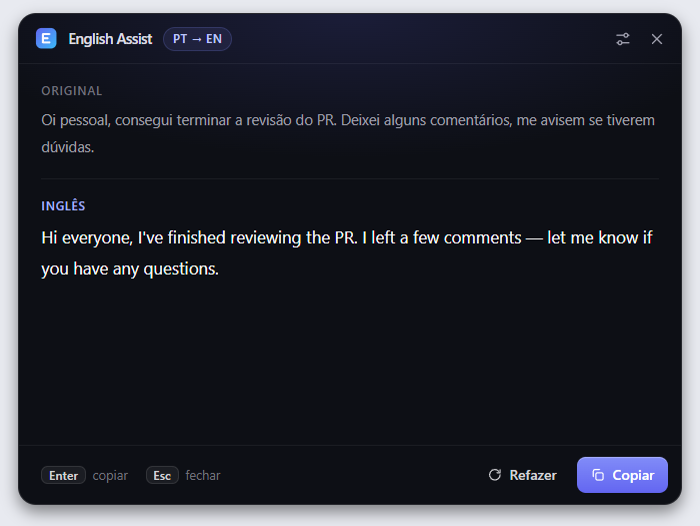
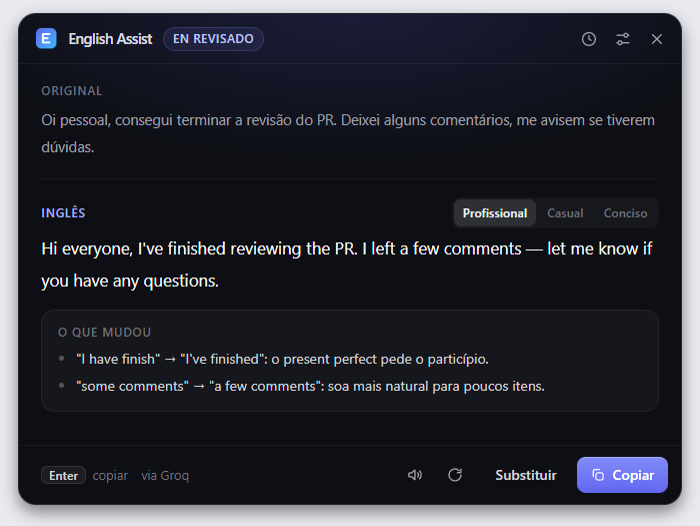
feat: auto-update from GitHub releases

diff --git a/src/main/updater.ts b/src/main/updater.ts
@@ -1,0 +1,40 @@
+import { app } from 'electron'
+import { autoUpdater } from 'electron-updater'
+import { notify } from './tray'
+
+// Updates come from the GitHub releases of the repository named in electron-builder.yml.
+// A new version downloads in the background and is installed when the app quits.
+export function initUpdater(): void {
+  if (!app.isPackaged) return
+
+  autoUpdater.autoDownload = true
+  autoUpdater.autoInstallOnAppQuit = true
+  autoUpdater.on('update-downloaded', (info) => {
+    notify('Atualização pronta', `A versão ${info.version} será instalada quando você sair do English Assist.`)
+  })
+  // Failures are reported by whoever asked for the check; without a listener they would be thrown.
+  autoUpdater.on('error', () => {})
+
+  void checkForUpdates(false)
+}
+
+/** `manual` checks always tell the user the outcome; the one at startup stays quiet unless there is an update. */
+export async function checkForUpdates(manual: boolean): Promise<void> {
+  if (!app.isPackaged) {
+    if (manual) notify('Atualizações', 'Só a versão instalada do app se atualiza sozinha.')
+    return
+  }
+
+  try {
+    const result = await autoUpdater.checkForUpdates()
+    if (!manual) return
+    if (result?.downloadPromise) {
+      notify('Atualização encontrada', `Baixando a versão ${result.updateInfo.version}.`)
+    } else {
+      notify('Atualizações', `Você já está na versão mais recente (${app.getVersion()}).`)
+    }
+  } catch {
+    // No release published yet, or no internet.
+    if (manual) notify('Atualizações', 'Não foi possível verificar agora. Tente de novo mais tarde.')
+  }
+}

diff --git a/src/renderer/src/components/PreferencesPanel.tsx b/src/renderer/src/components/PreferencesPanel.tsx
@@ -11,10 +11,11 @@ type PreferencesPanelProps = {
   preferences: Preferences
   /** The natural voice needs the key of the Gemini provider. */
   geminiKey: boolean
+  version: string
   onChanged: () => void
 }
 
-export function PreferencesPanel({ preferences, geminiKey, onChanged }: PreferencesPanelProps) {
+export function PreferencesPanel({ preferences, geminiKey, version, onChanged }: PreferencesPanelProps) {
   const [glossary, setGlossary] = useState(preferences.glossary)
 
   const save = async (patch: Partial<Preferences>) => {
@@ -79,6 +80,17 @@ export function PreferencesPanel({ preferences, geminiKey, onChanged }: Preferen
           className="scroll-thin mt-1.5 w-full select-text resize-none rounded-lg border border-white/10 bg-white/[0.04] px-3 py-2 font-mono text-[12.5px] leading-5 text-zinc-100 transition-colors placeholder:text-zinc-600 hover:border-white/20 focus:border-indigo-400/60 focus:bg-white/[0.06] focus:outline-none focus:ring-2 focus:ring-indigo-400/25"
         />
       </div>
+
+      <p className="text-[11.5px] text-zinc-500">
+        English Assist {version} ·{' '}
+        <button
+          type="button"
+          onClick={() => void window.api.checkForUpdates()}
+          className="rounded text-indigo-300 underline-offset-2 hover:underline"
+        >
+          Verificar atualizações
+        </button>
+      </p>
     </div>
   )
 }

diff --git a/src/main/index.ts b/src/main/index.ts
@@ -6,6 +6,7 @@ import { startSelectionHelper } from './selection'
 import { getActiveProviders, getShortcuts } from './settings'
 import { initShortcuts } from './shortcut'
 import { createTray, notify } from './tray'
+import { checkForUpdates, initUpdater } from './updater'
 import { createFloatingWindow, openView, showWindow } from './window'
 
 // Optional .env at the project root (see .env.example) for development.
@@ -36,7 +37,8 @@ if (!app.requestSingleInstanceLock()) {
       onListen: () => void startSessionFromClipboard({ direction: 'to-english', speak: true }),
       onPortuguese: () => void startSessionFromClipboard({ direction: 'to-portuguese' }),
       onOpen: showWindow,
-      onSettings: () => void openView('settings')
+      onSettings: () => void openView('settings'),
+      onCheckForUpdates: () => void checkForUpdates(true)
     })
 
     const unavailable = initShortcuts({
@@ -50,6 +52,8 @@ if (!app.requestSingleInstanceLock()) {
       const keys = unavailable.map((action) => formatAccelerator(shortcuts[action]).join('+')).join(' e ')
       notify('Atalho indisponível', `${keys}: já em uso por outro aplicativo. Troque em Configurações → Atalhos.`)
     }
+
+    initUpdater()
 
     // First run: nothing works without a provider, so start on the settings screen.
     if (getActiveProviders().length === 0) void openView('settings')

diff --git a/src/main/ipc.ts b/src/main/ipc.ts
@@ -17,6 +17,7 @@ import { getPublicSettings, moveProvider, removeProvider, savePreferences, saveP
 import { changeShortcut, suspendShortcuts } from './shortcut'
 import { refreshTray } from './tray'
 import { synthesize } from './tts'
+import { checkForUpdates } from './updater'
 import { hideWindow, markRendererReady, setAutoHide } from './window'
 
 const text = (value: unknown): string | undefined => (typeof value === 'string' ? value.trim() : undefined)
@@ -45,6 +46,7 @@ export function registerIpcHandlers(): void {
   ipcMain.handle(IPC.synthesize, (_event, value: unknown): SpeechResult | Promise<SpeechResult> =>
     typeof value === 'string' && value ? synthesize(value) : { ok: false, message: 'Texto inválido.' }
   )
+  ipcMain.handle(IPC.checkForUpdates, () => checkForUpdates(true))
   ipcMain.handle(IPC.getHistory, listHistory)
   ipcMain.handle(IPC.clearHistory, clearHistory)
   ipcMain.handle(IPC.savePreferences, (_event, patch: unknown) => {

diff --git a/src/shared/ipc.ts b/src/shared/ipc.ts
@@ -21,6 +21,7 @@ export const IPC = {
   getHistory: 'history:get',
   clearHistory: 'history:clear',
   synthesize: 'speech:synthesize',
+  checkForUpdates: 'app:check-for-updates',
   suspendShortcuts: 'shortcuts:suspend'
 } as const
 
@@ -111,6 +112,7 @@ export type PublicSettings = {
   preferences: Preferences
   /** Whether a Gemini key exists, which the natural voice needs. */
   geminiKey: boolean
+  version: string
 }
 
 export type ProviderPatch = {
@@ -139,6 +141,8 @@ export interface AssistApi {
   explain(source: string, result: string): Promise<ExplainResult>
   /** Natural-voice audio for a text, from Gemini. */
   synthesize(text: string): Promise<SpeechResult>
+  /** The outcome is reported through a tray notification. */
+  checkForUpdates(): Promise<void>
   getHistory(): Promise<HistoryEntry[]>
   clearHistory(): Promise<void>
   getSettings(): Promise<PublicSettings>

diff --git a/src/renderer/src/components/SettingsView.tsx b/src/renderer/src/components/SettingsView.tsx
@@ -59,7 +59,7 @@ export function SettingsView({ onClose }: { onClose: () => void }) {
       {tab === 'shortcuts' && settings ? (
         <ShortcutsPanel shortcuts={settings.shortcuts} onChanged={() => void load()} />
       ) : tab === 'preferences' && settings ? (
-        <PreferencesPanel preferences={settings.preferences} geminiKey={settings.geminiKey} onChanged={() => void load()} />
+        <PreferencesPanel preferences={settings.preferences} geminiKey={settings.geminiKey} version={settings.version} onChanged={() => void load()} />
       ) : (
         <div className="scroll-thin flex-1 overflow-y-auto px-3 py-3">
           <p className="px-2 pb-2 text-[12px] leading-5 text-zinc-400">

diff --git a/src/main/tray.ts b/src/main/tray.ts
@@ -9,6 +9,7 @@ type TrayActions = {
   onPortuguese: () => void
   onOpen: () => void
   onSettings: () => void
+  onCheckForUpdates: () => void
 }
 
 // Kept at module scope so the tray icon is not garbage collected.
@@ -47,6 +48,7 @@ export function refreshTray(): void {
         checked: app.getLoginItemSettings().openAtLogin,
         click: (item) => app.setLoginItemSettings({ openAtLogin: item.checked })
       },
+      { label: `Verificar atualizações (versão ${app.getVersion()})`, click: actions.onCheckForUpdates },
       { type: 'separator' },
       { label: 'Sair', click: () => app.quit() }
     ])

diff --git a/src/preload/index.ts b/src/preload/index.ts
@@ -16,6 +16,7 @@ const api: AssistApi = {
   replace: (text) => ipcRenderer.invoke(IPC.replace, text),
   explain: (source, result) => ipcRenderer.invoke(IPC.explain, source, result),
   synthesize: (text) => ipcRenderer.invoke(IPC.synthesize, text),
+  checkForUpdates: () => ipcRenderer.invoke(IPC.checkForUpdates),
   getHistory: () => ipcRenderer.invoke(IPC.getHistory),
   clearHistory: () => ipcRenderer.invoke(IPC.clearHistory),
   getSettings: () => ipcRenderer.invoke(IPC.getSettings),

diff --git a/src/main/settings.ts b/src/main/settings.ts
@@ -138,7 +138,8 @@ export function getPublicSettings(): PublicSettings {
     providers: resolveAll(read()).map(({ apiKey: _apiKey, ...state }) => state),
     shortcuts: getShortcuts(),
     preferences: getPreferences(),
-    geminiKey: getGeminiKey() !== null
+    geminiKey: getGeminiKey() !== null,
+    version: app.getVersion()
   }
 }
 

diff --git a/README.md b/README.md
@@ -1,9 +1,10 @@
 # English Assist
 
-Assistente de escrita em inglês que vive na bandeja do Windows. Selecione um texto em qualquer programa, pressione `Ctrl+Alt+E` e receba a versão em inglês numa janela flutuante, pronta para colar.
+Assistente de escrita em inglês que vive na barra de tarefas do Windows. Selecione um texto em qualquer programa, pressione um atalho e receba a versão em inglês: numa janela flutuante, direto por cima da seleção ou em voz alta.
 
-- **Texto em português** → traduzido para um inglês nativo e profissional.
-- **Texto em inglês** → gramática corrigida e reescrito para soar mais natural.
+- **Texto em português** → traduzido para inglês nativo.
+- **Texto em inglês** → gramática corrigida e reescrito para soar natural, com explicação do que mudou.
+- **Mensagem recebida em inglês** → traduzida para português.
 
 ![Janela do English Assist com um texto traduzido](docs/screenshot.png)
 
@@ -11,25 +12,58 @@ Assistente de escrita em inglês que vive na bandeja do Windows. Selecione um te
 
 1. Deixe o app rodando em segundo plano. Ele fica minimizado na barra de tarefas e com um ícone na bandeja do sistema.
 2. Escreva seu e-mail, mensagem de Slack ou comentário de PR e selecione o texto.
-3. Pressione `Ctrl+Alt+E`. A janela aparece e o texto em inglês vai sendo escrito em tempo real.
-4. Pressione `Enter` para copiar o resultado. A janela se fecha sozinha e você cola com `Ctrl+V` por cima da seleção.
+3. Pressione o atalho do que você quer fazer com ele.
 
-Não precisa de `Ctrl+C`: o app copia a seleção por você e depois devolve o que estava no seu clipboard (quando era texto). Se nada estiver selecionado, ele usa o texto que já está no clipboard.
+| Atalho global | O que faz com o texto selecionado                                              |
+| ------------- | ------------------------------------------------------------------------------ |
+| `Ctrl+Alt+E`  | Abre a janela com a versão em inglês, escrita em tempo real                    |
+| `Ctrl+Alt+R`  | Substitui a seleção pela versão em inglês, sem abrir a janela                  |
+| `Ctrl+Alt+L`  | Abre a janela e lê o resultado em voz alta                                     |
+| `Ctrl+Alt+P`  | Traduz para português, para entender uma mensagem recebida                     |
 
-| Atalho       | Ação                                                   |
-| ------------ | ------------------------------------------------------ |
-| `Ctrl+Alt+E` | Global: lê o texto selecionado e abre a janela          |
-| `Ctrl+Alt+L` | Global: faz o mesmo e lê o resultado em voz alta       |
-| `Enter`      | Copia o resultado e fecha a janela                     |
-| `Ctrl+R`     | Refaz o texto (gera outra versão)                      |
-| `Ctrl+L`     | Ouve o resultado em inglês (ou para a leitura)         |
-| `Esc`        | Fecha a janela                                         |
+Não precisa de `Ctrl+C`: o app copia a seleção por você e depois devolve o que estava no seu clipboard (quando era texto). Se nada estiver selecionado, os atalhos que abrem a janela usam o texto que já está no clipboard.
 
-Clicar fora da janela também a minimiza, e o botão na barra de tarefas a reabre. O ícone na bandeja tem um menu com **Melhorar texto copiado**, **Abrir janela**, **Configurações…**, **Iniciar com o Windows** e **Sair**.
+Todos os atalhos podem ser trocados em **Configurações → Atalhos**: clique no atalho e pressione a nova combinação (com `Ctrl` ou `Alt`). Se ela já pertencer a outro programa, o app avisa e mantém a anterior.
 
-Os dois atalhos globais podem ser trocados em **Configurações → Atalhos**: clique no atalho e pressione a nova combinação (com `Ctrl` ou `Alt`). Se a combinação já pertencer a outro programa, o app avisa e mantém a anterior.
+### Na janela
 
-O botão **Ouvir** e o atalho `Ctrl+Alt+L` leem o resultado em voz alta com as vozes em inglês instaladas no Windows: é gratuito, funciona offline e não usa nenhuma API. Ele só aparece quando existe uma voz em inglês no sistema (*Configurações → Hora e idioma → Fala*).
+| Tecla        | Ação                                                              |
+| ------------ | ----------------------------------------------------------------- |
+| `Enter`      | Copia o resultado e fecha a janela                                |
+| `Ctrl+Enter` | Fecha a janela e cola o resultado por cima do texto selecionado   |
+| `Ctrl+R`     | Refaz o texto (gera outra versão)                                 |
+| `Ctrl+L`     | Ouve o resultado, ou para a leitura                               |
+| `Esc`        | Fecha a janela                                                    |
+
+- **Tom:** acima do resultado, escolha entre **Profissional**, **Casual** e **Conciso**; o texto é refeito no tom escolhido. O tom padrão dos atalhos fica em **Configurações → Preferências**.
+- **Explicar as correções:** quando o texto original já estava em inglês, o link abaixo do resultado lista o que mudou e por quê, em português.
+- **Histórico:** o ícone de relógio abre os 50 últimos resultados, para reabrir e copiar de novo sem gastar outra requisição.
+- Clicar fora da janela a minimiza, e o botão na barra de tarefas a reabre.
+
+O ícone na bandeja tem um menu com as mesmas ações aplicadas ao texto já copiado, além de **Configurações…**, **Iniciar com o Windows**, **Verificar atualizações** e **Sair**.
+
+### Substituir a seleção
+
+`Ctrl+Alt+R` é o caminho mais curto: o texto selecionado some e a versão em inglês aparece no lugar. Enquanto o modelo responde, o botão do app na barra de tarefas pulsa; se algo der errado, o aviso vem pela bandeja. Não troque de janela nesse intervalo, porque o texto é colado em quem estiver em foco. O resultado também vai para o histórico.
+
+### Glossário
+
+Em **Configurações → Preferências**, liste os termos que têm regra própria, um por linha:
+
+```
+Kubernetes
+nota fiscal = invoice
+fechamento = month-end closing
+```
+
+Um termo sozinho nunca é traduzido; com sinal de igual, a tradução é sempre a indicada.
+
+### Voz
+
+O botão de alto-falante e o atalho `Ctrl+Alt+L` leem o resultado em voz alta. Há duas opções em **Configurações → Preferências**:
+
+- **Windows** (padrão): usa as vozes instaladas no sistema. É gratuito, funciona offline e não usa nenhuma API. Se faltar voz em inglês, instale em *Configurações → Hora e idioma → Fala*.
+- **Gemini**: voz natural gerada pelo Google, com a mesma chave do provedor Google Gemini. O texto é enviado ao Google e conta no limite gratuito da chave. Se a geração falhar, o app usa a voz do Windows e avisa no rodapé.
 
 ## Requisitos
 
@@ -109,11 +143,24 @@ O arquivo `.env` só é lido fora do app instalado (`npm run dev` e `npm start`)
 npm run dist
 ```
 
-O instalador é gerado em `release/English-Assist-Setup-1.0.0.exe` (NSIS, x64). Para testar sem instalar, `npm run dist:dir` gera apenas a pasta `release/win-unpacked/` com o `English Assist.exe`.
+O instalador é gerado em `release/English-Assist-Setup-<versão>.exe` (NSIS, x64). Para testar sem instalar, `npm run dist:dir` gera apenas a pasta `release/win-unpacked/` com o `English Assist.exe`.
 
 Depois de instalar, marque **Iniciar com o Windows** no menu da bandeja para o app subir junto com o sistema.
 
 > O executável não é assinado digitalmente, então o Windows SmartScreen pode avisar na primeira execução. Clique em **Mais informações → Executar assim mesmo**.
+
+### Publicando uma versão
+
+O app instalado procura versões novas nas [Releases do GitHub](https://github.com/wallaceluis/english-writing-assistant/releases) ao iniciar, baixa em segundo plano e instala quando você sai dele. Também dá para pedir a verificação pelo menu da bandeja ou em **Configurações → Preferências**. O repositório precisa ser público para isso funcionar.
+
+Para publicar:
+
+1. Aumente o campo `version` do `package.json`.
+2. Crie um [token do GitHub](https://github.com/settings/tokens) com o escopo `repo` e deixe-o na variável de ambiente `GH_TOKEN` do terminal.
+3. Rode `npm run release`. O electron-builder compila, cria um rascunho de Release com a tag da versão e envia o instalador, o `.blockmap` e o `latest.yml`.
+4. Abra o rascunho no GitHub e publique.
+
+Sem token, rode `npm run dist` e envie manualmente para uma Release com a tag `v<versão>` estes três arquivos de `release/`: o instalador `.exe`, o `.exe.blockmap` e o `latest.yml`.
 
 ### Erro "Cannot create symbolic link" no `npm run dist`
 
@@ -132,6 +179,7 @@ O electron-builder baixa um pacote (`winCodeSign`) que contém links simbólicos
 | `npm run typecheck` | Só a checagem de tipos do TypeScript                           |
 | `npm run dist`      | Compila e gera o instalador do Windows em `release/`           |
 | `npm run dist:dir`  | Compila e gera só a pasta descompactada, sem instalador        |
+| `npm run release`   | Compila e envia o instalador para uma Release do GitHub         |
 | `npm run icons`     | Redesenha `resources/icon.png` e `resources/tray.png`          |
 
 ## Arquitetura
@@ -144,15 +192,19 @@ src/
 │   ├── selection.ts      Captura do texto selecionado em outros programas
 │   ├── tray.ts           Ícone e menu da bandeja
 │   ├── shortcut.ts       Registro e troca dos atalhos globais
-│   ├── assistant.ts      Sessão: lê o clipboard, percorre os provedores, emite eventos
-│   ├── openai.ts         Cliente, prompt, streaming e tradução dos erros da API
-│   ├── settings.ts       Provedores, chaves criptografadas e ordem de fallback
+│   ├── assistant.ts      Sessões: lê o texto, percorre os provedores, emite eventos
+│   ├── openai.ts         Cliente Chat Completions: streaming e tradução dos erros
+│   ├── prompt.ts         Instruções para o modelo (direção, tom, glossário)
+│   ├── tts.ts            Voz natural opcional pelo Gemini
+│   ├── history.ts        Últimos resultados, em um arquivo local
+│   ├── updater.ts        Atualização automática pelas Releases do GitHub
+│   ├── settings.ts       Provedores, chaves criptografadas, atalhos e preferências
 │   └── ipc.ts            Handlers das chamadas vindas do renderer
 ├── preload/index.ts      Ponte segura (contextBridge) exposta como window.api
 ├── renderer/             Interface em React + Tailwind CSS
 │   └── src/
 │       ├── App.tsx
-│       ├── hooks/useAssistant.ts
+│       ├── hooks/            useAssistant (sessão) e useSpeech (voz)
 │       └── components/
 └── shared/
     ├── ipc.ts            Canais e tipos compartilhados entre os três processos
@@ -165,17 +217,21 @@ O fluxo de um atalho:
 1. O `globalShortcut` dispara no processo principal, que copia a seleção do programa em foco, lê o texto e mostra a janela.
 2. O principal chama a API de Chat Completions do primeiro provedor ativo com `stream: true`; se falhar, tenta o seguinte.
 3. Cada pedaço da resposta vai para o renderer pelo canal `session:event` (`start`, `provider`, `mode`, `delta`, `done` ou `error`).
-4. O renderer só desenha o estado. Copiar, fechar e refazer voltam ao principal por `ipcRenderer.invoke`.
+4. O renderer só desenha o estado. Copiar, substituir, refazer e explicar voltam ao principal por `ipcRenderer.invoke`.
 
 O renderer roda com `contextIsolation`, `sandbox` e sem `nodeIntegration`; as chaves e todas as chamadas de rede ficam no processo principal.
 
 ## Como a seleção é capturada
 
-O Windows não oferece uma forma direta de ler o texto selecionado em outro programa. Ao iniciar, o app sobe um processo auxiliar do PowerShell que fica aguardando; no atalho, ele espera você soltar as teclas, envia `Ctrl+C` para a janela em foco e confere se o clipboard mudou. Se mudou, o texto é lido e o conteúdo anterior do clipboard é restaurado. Gerenciadores de histórico do clipboard (como o `Win+V`) registram essa cópia.
+O Windows não oferece uma forma direta de ler o texto selecionado em outro programa. Ao iniciar, o app sobe um processo auxiliar do PowerShell que fica aguardando; no atalho, ele espera você soltar as teclas, envia `Ctrl+C` para a janela em foco e confere se o clipboard mudou. Se mudou, o texto é lido e o conteúdo anterior do clipboard é restaurado. Para substituir a seleção, o caminho é o inverso: o resultado vai para o clipboard, o auxiliar envia `Ctrl+V` e o clipboard é restaurado. Gerenciadores de histórico do clipboard (como o `Win+V`) registram essa cópia.
 
 ## Privacidade
 
-O texto copiado é enviado à API do provedor ativo (e do seguinte, se houver fallback) somente quando você pressiona o atalho (ou usa **Melhorar texto copiado** / **Refazer**). O app só lê a seleção e o clipboard no momento do atalho, não guarda histórico e não envia dados para nenhum outro serviço. Cada provedor tem sua própria política: no plano gratuito do Gemini, por exemplo, o Google pode usar os textos para melhorar seus produtos. Com o Ollama, nada sai do seu computador.
+- O texto só sai do seu computador quando você usa um atalho, um item do menu da bandeja ou um botão da janela. Ele vai para a API do provedor ativo e, se houver fallback, para o seguinte.
+- O app só lê a seleção e o clipboard nesses momentos; não fica monitorando nenhum dos dois.
+- O histórico fica em `%APPDATA%\English Assist\history.json`, em texto puro, e nunca é enviado a lugar nenhum. Dá para limpar na tela de histórico e desligar em **Configurações → Preferências**.
+- A voz do Gemini, quando escolhida, envia ao Google o texto a ser lido.
+- Cada provedor tem sua própria política: no plano gratuito do Gemini, por exemplo, o Google pode usar os textos para melhorar seus produtos. Com o Ollama e a voz do Windows, nada sai do computador.
 
 ## Problemas comuns
 
@@ -189,11 +245,13 @@ O texto copiado é enviado à API do provedor ativo (e do seguinte, se houver fa
 | "O modelo … não existe ou não está disponível" | O ID do modelo mudou ou sua conta não tem acesso a ele. Troque em **Configurações**. |
 | "Não encontrei texto selecionado nem copiado" | Selecione o texto antes do atalho. Imagens e arquivos não contam como texto. |
 | O atalho ignora a seleção em um programa | Programas abertos como administrador não aceitam o `Ctrl+C` enviado pelo app. Copie com `Ctrl+C` e use o atalho em seguida. |
+| O atalho de substituir colou no lugar errado | O texto é colado na janela em foco quando a resposta chega. Não troque de janela enquanto o botão da barra de tarefas pulsa; `Ctrl+Z` desfaz. |
+| "Não foi possível verificar agora" nas atualizações | Ainda não há Release publicada no GitHub, ou não há internet. |
 | `npm install` falha ao instalar o Electron        | O projeto fixa o Electron 39, a última série cujo instalador roda no Node 20. Para usar um Electron mais novo, atualize o Node para 22.12 ou superior.      |
 
 ## Stack
 
-[Electron](https://www.electronjs.org) · [electron-vite](https://electron-vite.org) · [React](https://react.dev) · [TypeScript](https://www.typescriptlang.org) · [Tailwind CSS](https://tailwindcss.com) · [OpenAI Node SDK](https://github.com/openai/openai-node) · [electron-builder](https://www.electron.build)
+[Electron](https://www.electronjs.org) · [electron-vite](https://electron-vite.org) · [React](https://react.dev) · [TypeScript](https://www.typescriptlang.org) · [Tailwind CSS](https://tailwindcss.com) · [OpenAI Node SDK](https://github.com/openai/openai-node) · [electron-builder](https://www.electron.build) · [electron-updater](https://www.electron.build/auto-update)
 
 ## Licença
 
